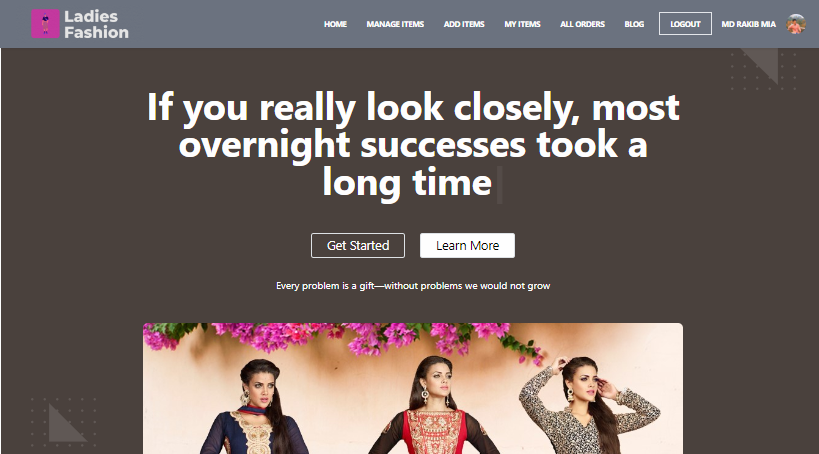
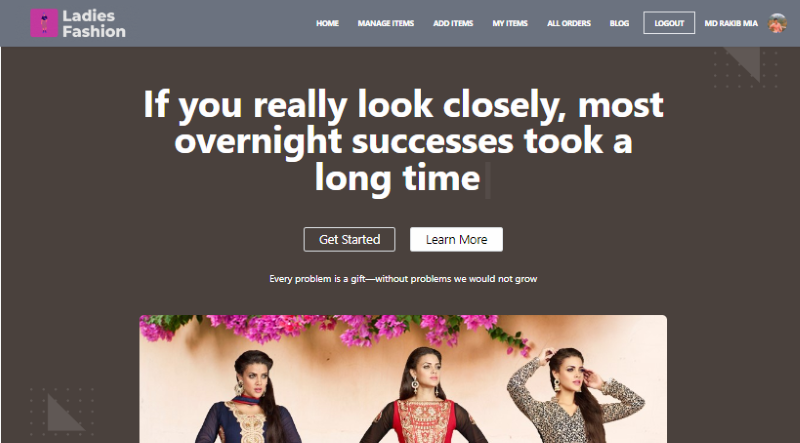
add react router

diff --git a/src/components/pages/Home/Banner.js b/src/components/pages/Home/Banner.js
@@ -4,7 +4,7 @@ import TypewriterComponent from 'typewriter-effect';
 
 const Banner = () => {
     return (
-        <div className="hero mb-32">
+        <div className="hero mb-32" >
             <div className="hero-content flex-col w-full justify-around lg:flex-row-reverse">
                 <motion.div
                     initial={{ opacity: 0, x: 50, scale: 0.9 }}
@@ -12,7 +12,7 @@ const Banner = () => {
                     transition={{ duration: 1, ease: "easeInOut" }}
                     className='mask mask-hexagon max-w-sm mb-12 lg:mb-0'
                 >
-                    <img src="images/rakibahasan.png" alt='me' />
+                    <img src="/images/rakib.png" alt='me' />
                 </motion.div>
                 <motion.div
                     initial={{ opacity: 0, x: -50, scale: 0.9 }}
@@ -20,7 +20,7 @@ const Banner = () => {
                     transition={{ duration: 1, ease: "easeInOut" }}
                     className='max-w-2xl'
                 >
-                    <h1 className="text-5xl font-semibold mb-5">Hi! I am Rakib!</h1>
+                    <h1 className="text-5xl font-semibold mb-5">I am Rakib!</h1>
                     <div className="text-3xl leading-relaxed mb-5">Front-end Web Developer With Expertise on
                         <span className='font-semibold'>
                             <TypewriterComponent
@@ -34,7 +34,7 @@ const Banner = () => {
                             />
                         </span>
                     </div>
-                    <a href="https://drive.google.com/file/d/14AwRNQ28vvH4u936eQ4DNH85PRV8nv--/view?usp=sharing" target="_blank" className="btn btn-primary">Download Resume</a>
+                    <a href="https://drive.google.com/u/0/uc?id=14AwRNQ28vvH4u936eQ4DNH85PRV8nv--&export=download" target="_blank" className="btn btn-primary">Download Resume</a>
                 </motion.div>
             </div>
         </div>

diff --git a/src/App.js b/src/App.js
@@ -2,17 +2,36 @@ import './App.css';
 import Home from './components/pages/Home/Home';
 import Footer from './components/sharedPages/Footer';
 import NavBar from './components/sharedPages/NavBar';
+import { Routes, Route } from "react-router-dom";
+import Blog from './components/pages/Home/Blog';
+import Banner from './components/pages/Home/Banner';
+import AboutMe from './components/pages/Home/AboutMe';
+import Portfolio from './components/pages/Home/Portfolio/Portfolio';
+import ContactMe from './components/pages/Home/ContactMe';
+import Services from './components/pages/Home/Services/Services';
 
 function App() {
   return (
     <div>
+     
+     
+  
       <div className="max-w-7xl p-10 mx-auto scroll-smooth">
       <div className='sticky top-0 z-50'>
         <NavBar></NavBar>
       </div>
-        <Home></Home>
       </div>
-      <Footer></Footer>
+    
+      <Routes>
+        <Route path='/' element={<Home></Home>}></Route>
+        <Route path='/home' element={<Home></Home>}></Route>
+         <Route path='/about' element={<AboutMe></AboutMe>}></Route>
+         <Route path='/project' element={<Services></Services>}></Route>
+         <Route path='/portfolio' element={<Portfolio></Portfolio>}></Route>
+         <Route path='/contact' element={<ContactMe></ContactMe>}></Route>
+         <Route path='/blog' element={<Blog></Blog>}></Route>
+      </Routes>
+        <Footer></Footer>
     </div>
   );
 }

diff --git a/src/components/sharedPages/NavBar.js b/src/components/sharedPages/NavBar.js
@@ -1,10 +1,18 @@
 import React from 'react';
 import { motion } from 'framer-motion';
+import { Routes, Route, Link } from "react-router-dom";
 
 const NavBar = () => {
     const navbarItems = <>
-        <li className='mx-auto lg:mr-4'><a href='#services'>Services</a></li>
-        <li className='mx-auto lg:mr-4'><a href='#portfolio'>Projects</a></li>
+
+        <li className='mx-auto lg:mr-4'> <Link to="home">Home</Link></li>
+        <li className='mx-auto lg:mr-4'><Link to="about">About</Link> </li>
+        <li className='mx-auto lg:mr-4'><Link to="project">Project</Link></li>
+        <li className='mx-auto lg:mr-4'><Link to="portfolio">Portfolio</Link></li>
+        <li className='mx-auto lg:mr-4'><Link to="contact">Contact</Link> </li>
+        <li className='mx-auto lg:mr-4'><Link to="blog">Blog</Link> </li>
+        
+        <li className='mx-auto lg:mr-4'> <a href="https://drive.google.com/file/d/14AwRNQ28vvH4u936eQ4DNH85PRV8nv--/view?usp=sharing" target="_blank" className="btn btn-primary">Resume</a></li>
     </>
     return (
         <motion.div

diff --git a/src/components/pages/Home/AboutMe.js b/src/components/pages/Home/AboutMe.js
@@ -3,12 +3,13 @@ import { motion } from 'framer-motion';
 
 const AboutMe = () => {
     return (
-        <motion.div
+      <div id='about'>
+          <motion.div  
             initial={{ opacity: 0, y: 50 }}
             whileInView={{ opacity: 1, y: 0 }}
             transition={{ duration: 1, ease: 'easeInOut' }}
             className="hero mb-32">
-            <div className="hero-content w-full flex-col justify-between lg:flex-row">
+            <div className="hero-content w-full flex-col justify-between lg:flex-row" >
                 <div className='mask mask-hexagon mb-12 lg:mb-0'>
                     <img src="images/arts/aboutme.svg" className="" alt='about me' />
                 </div>
@@ -19,6 +20,7 @@ const AboutMe = () => {
                 </div>
             </div>
         </motion.div>
+      </div>
     );
 };
 

diff --git a/src/index.js b/src/index.js
@@ -3,12 +3,15 @@ import ReactDOM from 'react-dom/client';
 import './index.css';
 import App from './App';
 import reportWebVitals from './reportWebVitals';
+import { BrowserRouter } from 'react-router-dom';
 
 const root = ReactDOM.createRoot(document.getElementById('root'));
 root.render(
+  <BrowserRouter>
   <React.StrictMode>
     <App />
   </React.StrictMode>
+  </BrowserRouter>
 );
 
 // If you want to start measuring performance in your app, pass a function

diff --git a/src/components/pages/Home/Blog.js b/src/components/pages/Home/Blog.js
@@ -1,0 +1,11 @@
+import React from 'react';
+
+const Blog = () => {
+    return (
+        <div className='h-screen flex justify-center items-center text-5xl'>
+             <h1>Coming Soon...</h1>
+        </div>
+    );
+};
+
+export default Blog;

diff --git a/src/components/pages/Home/Home.js b/src/components/pages/Home/Home.js
@@ -13,6 +13,7 @@ const Home = () => {
             <Services></Services>
             <Portfolio></Portfolio>
             <ContactMe></ContactMe>
+            
         </div>
     );
 };
